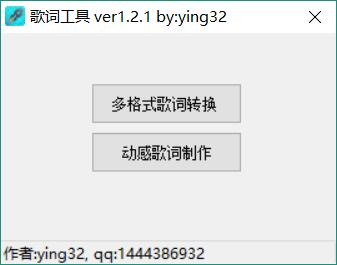
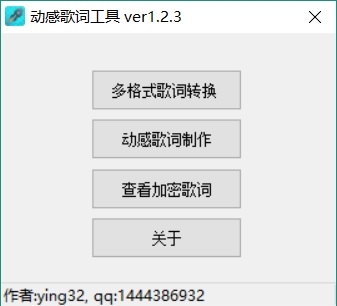
1.2.3

diff --git a/README.md b/README.md
@@ -9,10 +9,18 @@
 
 **如遇360或者QQ管家报“隐私”什么的警告请选择信任。因为我并没有干啥，所以我对于这些软件弹出的警告信息也很无奈。言尽于此。**
 
+**如遇不能打开程序，请确认是否安装了vs2010运行库，如果没有请下载vs2010运行库进行安装，或者单独下载msvcp100.dll、msvcr100.dll两个动态链接库。**   
+
 ## 更新日志
 
 > 
 
+ 2018-04-29  
+    v1.2.3  
+	
+1、删除程序依赖库，现只需要单一exe即可运行     
+2、增加“查看加密歌词”功能     
+ 
  2017-12-08  
     v1.2.2  
 	
